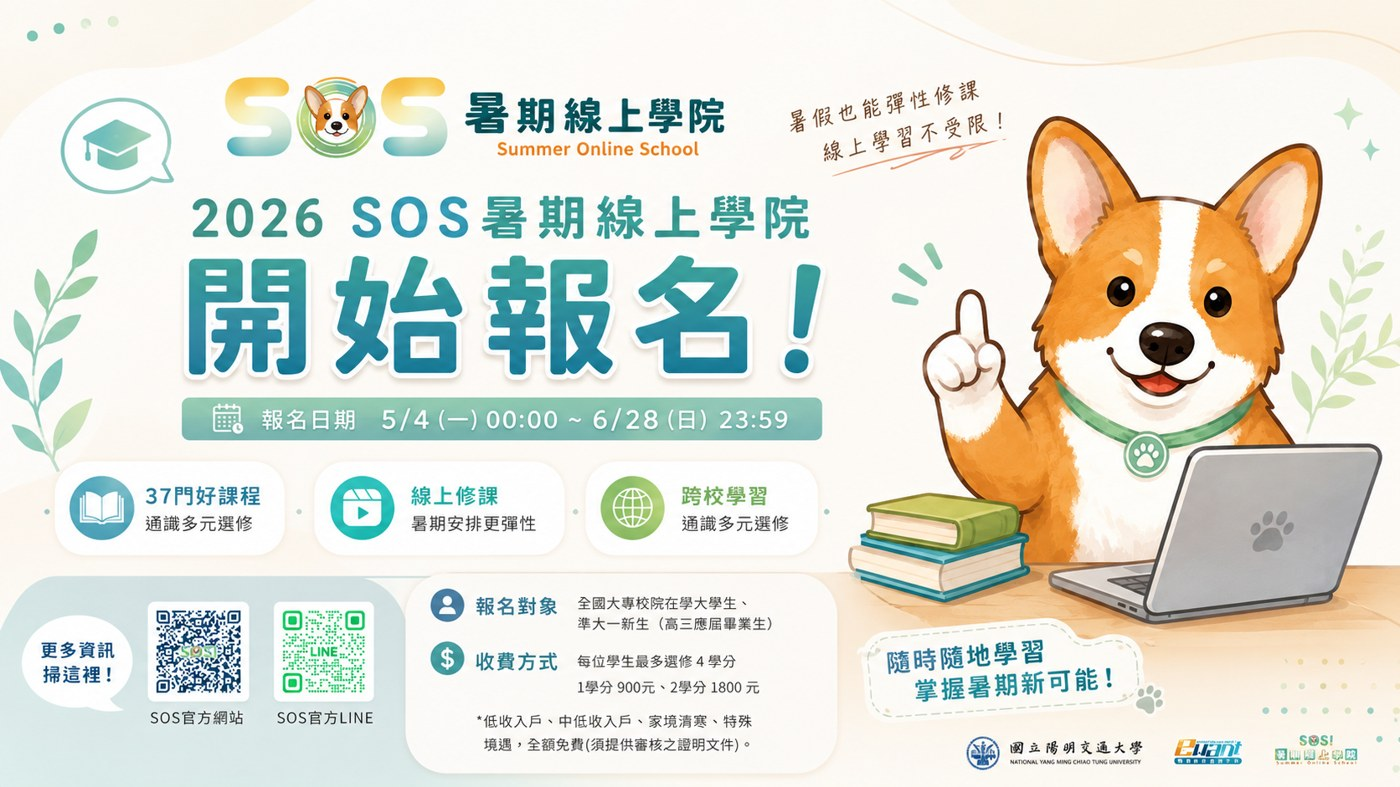
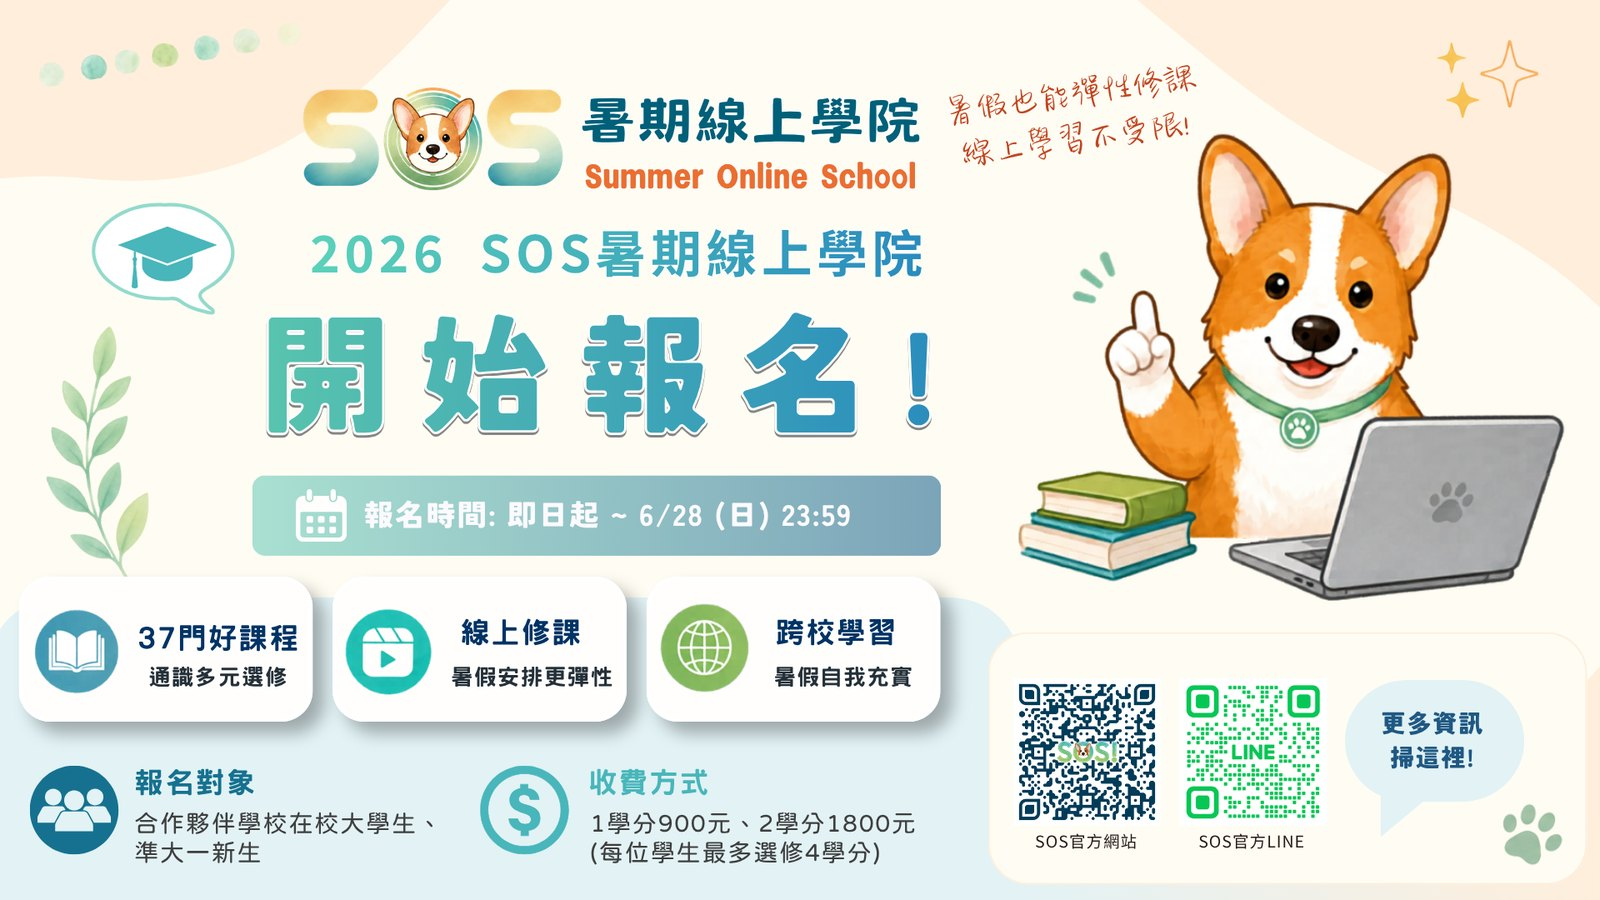
行銷頁門面主視覺換成「開始報名_橫幅16x9_完整資訊_寬版」最新版（1600×900），加 ?v=2 破快取

diff --git a/marketing.html b/marketing.html
@@ -176,7 +176,7 @@ footer .sig{margin-top:4px;font-size:.85em}
     <span class="role-line">我的角色：企劃＋視覺＋文案全自產（Canva ＋ AI 生圖）</span>
   </div>
   <div class="hero-art">
-    <figure class="tile wide"><div class="ph"><img decoding="async" src="assets/mkt-banner-16x9.jpg" alt="開始報名橫幅" data-cap="開始報名主視覺（16:9 寬版）：五層資訊架構的完整示範——大標、日期帶、三張 icon 賣點卡、細項、行動資訊一層不缺"></div><figcaption>開始報名主視覺（16:9）——這一季的門面，點圖可放大</figcaption></figure>
+    <figure class="tile wide"><div class="ph"><img decoding="async" src="assets/mkt-banner-16x9.jpg?v=2" alt="開始報名橫幅" data-cap="開始報名主視覺（16:9 寬版）：五層資訊架構的完整示範——大標、日期帶、三張 icon 賣點卡、細項、行動資訊一層不缺"></div><figcaption>開始報名主視覺（16:9）——這一季的門面，點圖可放大</figcaption></figure>
   </div>
 </div>
 
